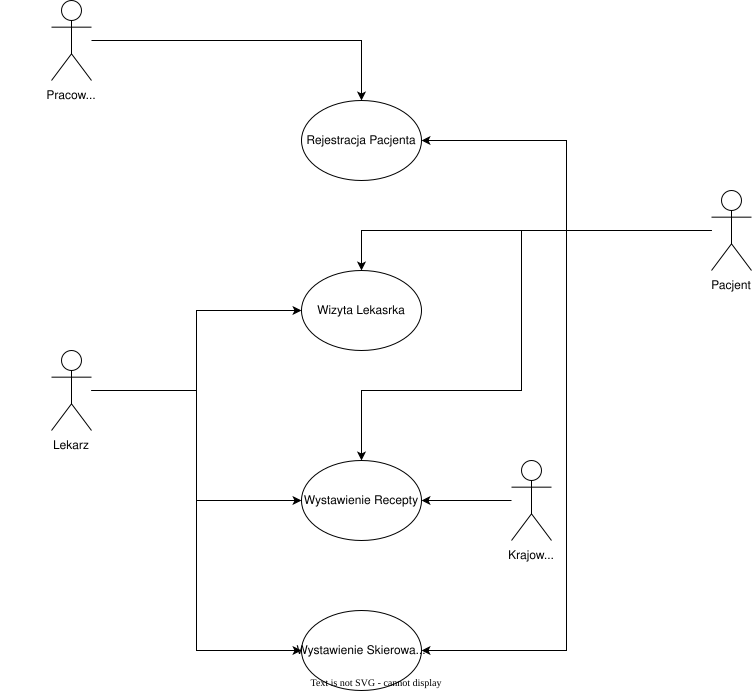
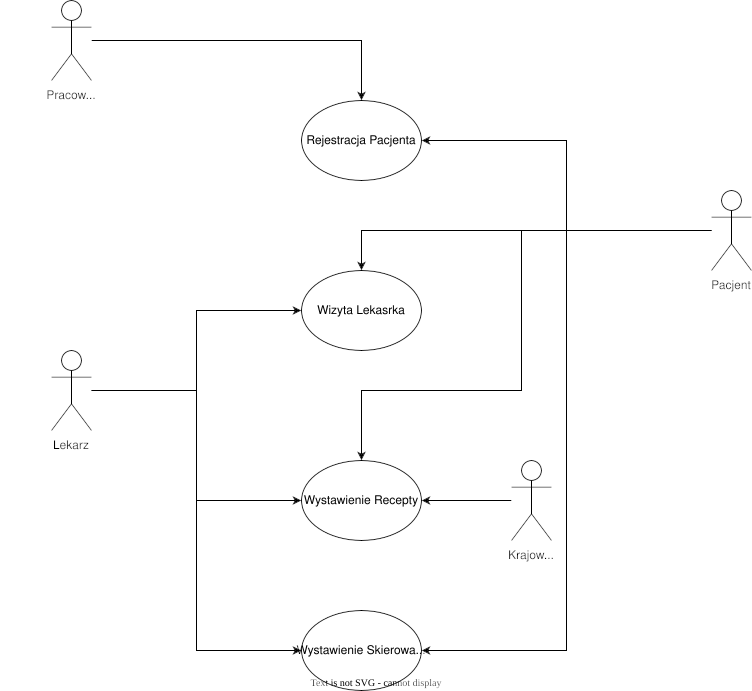
V1.2

diff --git a/Tex/PSI_IO1_Daszewski_Jakubczyk.tex b/Tex/PSI_IO1_Daszewski_Jakubczyk.tex
@@ -143,12 +143,8 @@ System pomaga przy wizycie zbierając dokumentacje od lekarza i udostępniając 
 			\item System powinien mieć interfejs użytkownika, który użytkownicy ocenią jako przejrzysty i łatwy w obsłudze
 			\item System powinien pokazywać aktualne rezerwacje w co najwyżej 1 minutę
 		\end{enumerate}
-		\item Ograniczenia
-		\begin{enumerate}
-			\item
-		\end{enumerate}
-	\end{itemize}
 		
+	\end{itemize}
 	\subsubsection*{Proces Biznesowy: Obsługa Wizyty}
 	\begin{itemize}
 		\item Czynności:
@@ -522,8 +518,6 @@ System pomaga przy wizycie zbierając dokumentacje od lekarza i udostępniając 
         Notatki& brak\\
         \hline
 \end{tabular}
-\newpage
-\section{Modelowanie analityczne SI}
 \newpage
 \section{Modelowanie danych}
 \subsection{Diagram Koncpetualny Klas}